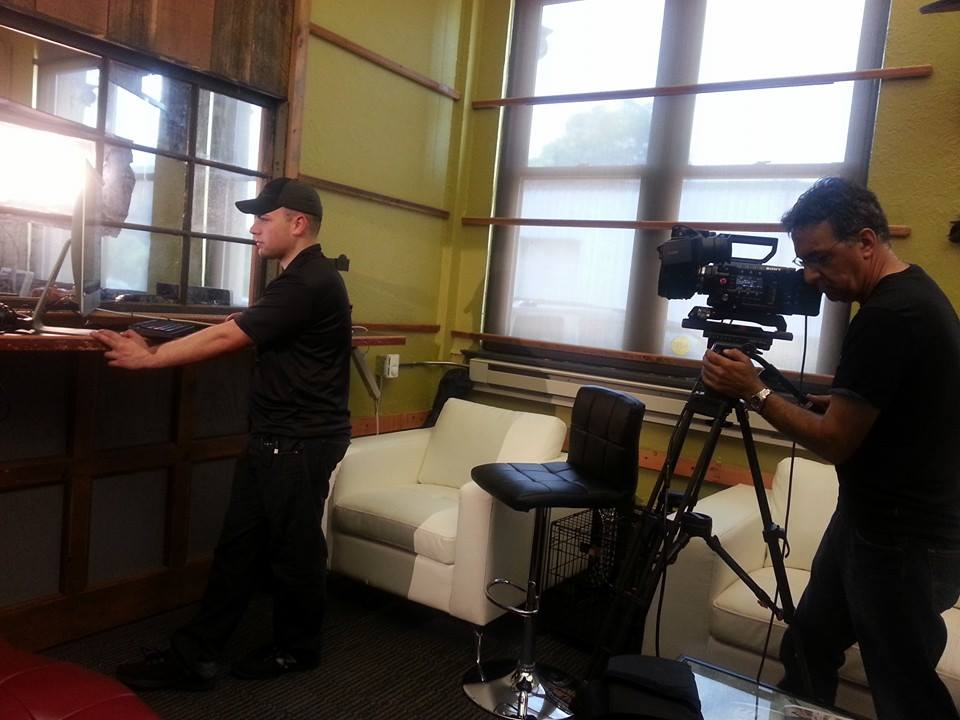
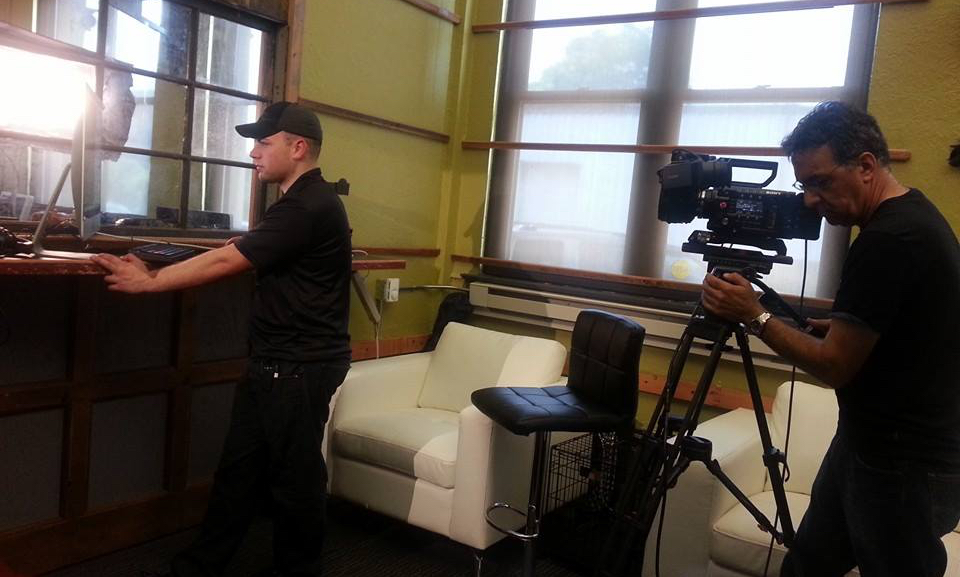
about copy & images

diff --git a/about.md b/about.md
@@ -3,19 +3,11 @@ layout: page
 title: About
 ---
 
-<img src="{{ site.baseurl }}/assets/img/real-money.jpg">
+<img src="{{ site.baseurl }}/assets/img/megan-joseph.jpg">
 
-I am a professional front-end developer from upstate New York, where I live with my beautiful fiance Megan, and our daughter Delaney.
+I am a front-end developer from upstate New York, where I live with my beautiful fiance Megan, and our daughter Delaney.
 
 I am currently employed by [Incsub](http://incsub.com), the company behind the WordPress projects [WPMU DEV](http://premium.wpmudev.org) and [Edublogs](http://edublogs.org).
-
------
-
-## WordPress
-
-Working with [WordPress](http://wordpress.org) daily, I have dabbled in plugin development in addition to building themes from the ground up.
-
-+ [Advanced Custom Fields Viewer](https://wordpress.org/support/plugin/advanced-custom-fields-viewer)
 
 -----
 
@@ -23,15 +15,22 @@ Working with [WordPress](http://wordpress.org) daily, I have dabbled in plugin d
 
 Here are a few websites I have either created or helped build.
 
-+ [edublogs](http://edublogs.org) - Incsub
-+ [upstatesportsandspine](http://upstatesportsandspine.com) - Phu Concepts Inc
-+ [bio-optronics](http://bio-optronics.com) - Phu Concepts Inc
-+ [l-trondirect](http://l-trondirect.com) - Phu Concepts Inc
-+ [expatriatetaxonline](http://expatriatetaxonline.com) - Whitetail Development Inc
-+ [justgivemethedamnmanual](http://justgivemethedamnmanual.com)
-+ [snowyescape](http://snowyescape.com)
-+ [dogedir](http://dogedir.com)
++ **[edublogs](http://edublogs.org)** - Incsub
++ **[upstatesportsandspine](http://upstatesportsandspine.com)** - Phu Concepts Inc
++ **[bio-optronics](http://bio-optronics.com)** - Phu Concepts Inc
++ **[l-trondirect](http://l-trondirect.com)** - Phu Concepts Inc
++ **[expatriatetaxonline](http://expatriatetaxonline.com)** - Whitetail Development Inc
++ **[justgivemethedamnmanual](http://justgivemethedamnmanual.com)**
++ **[snowyescape](http://snowyescape.com)**
++ **[dogedir](http://dogedir.com)**
 
+-----
+
+## WordPress
+
+Working with [WordPress](http://wordpress.org) daily, I have dabbled in plugin development in addition to building themes from the ground up.
+
++ **[Advanced Custom Fields Viewer](https://wordpress.org/support/plugin/advanced-custom-fields-viewer)**
 
 -----
 
@@ -39,7 +38,9 @@ Here are a few websites I have either created or helped build.
 
 I credit a lot of my development knowledge to [teamtreehouse.com](teamtreehouse.com/), and have had a couple write-ups as a result of them. Check them out!
 
-+ [Mashable](http://mashable.com/2015/01/11/teach-yourself-programming/)
-+ [Treehouse](https://teamtreehouse.com/stories/joe-fusco)
++ **[Mashable](http://mashable.com/2015/01/11/teach-yourself-programming/)**
++ **[Treehouse](https://teamtreehouse.com/stories/joe-fusco)**
+
+<img src="{{ site.baseurl }}/assets/img/real-money-bw.jpg">
 
 -----
